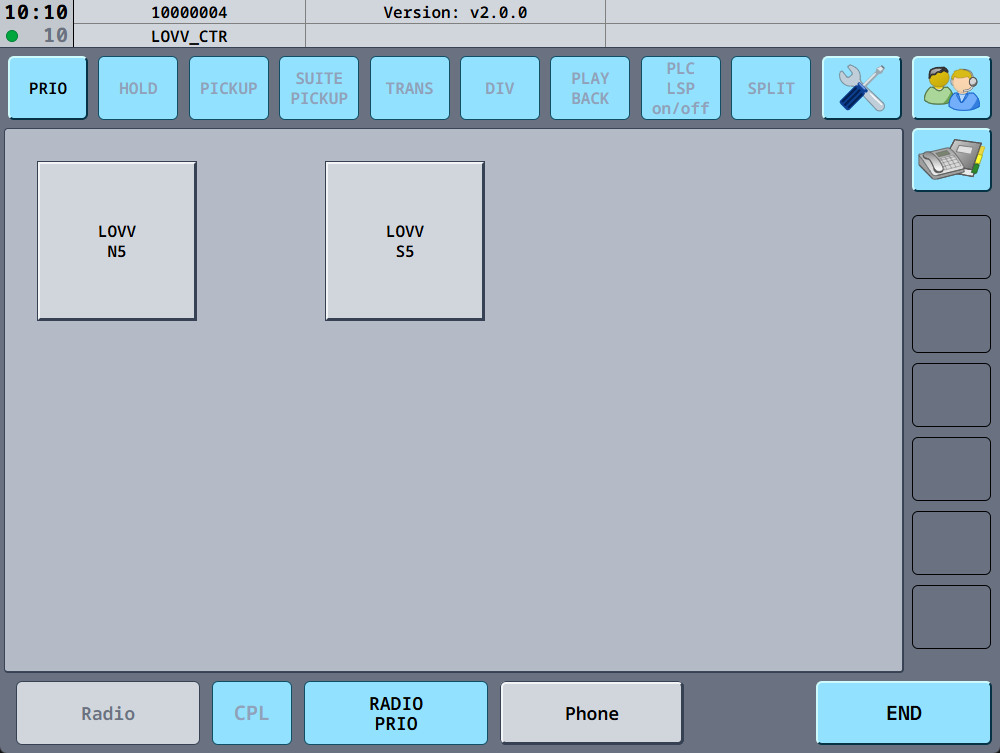
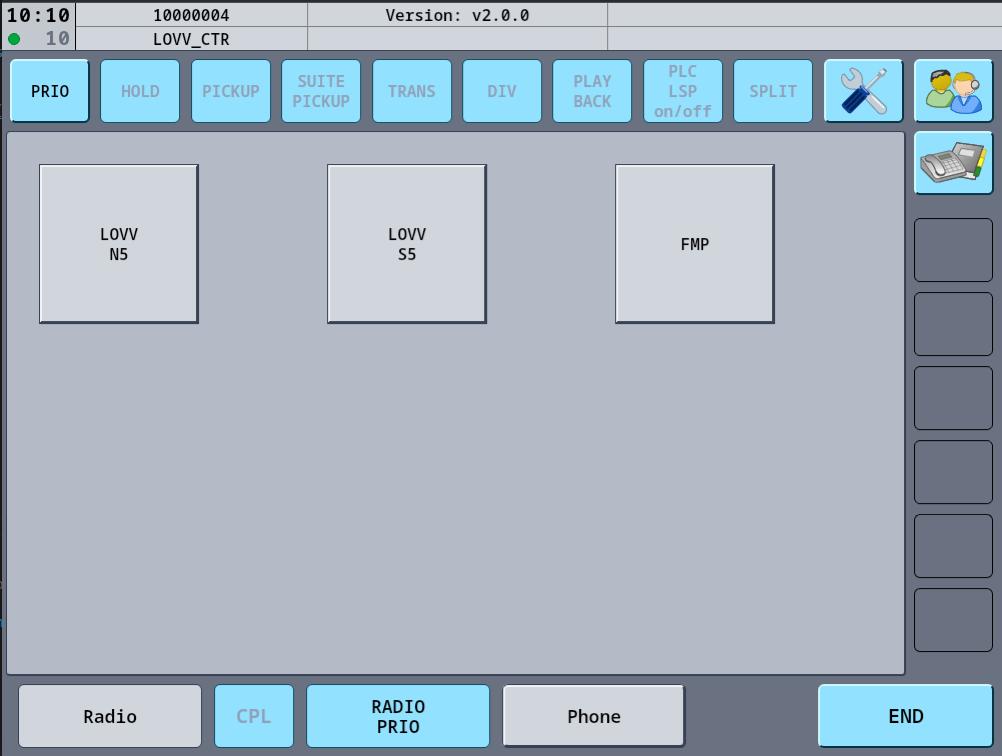
docs: add basic geo button station ID example

diff --git a/docs/dataset/profiles.md b/docs/dataset/profiles.md
@@ -413,6 +413,11 @@ This example demonstrates a simple geo profile using a vertical container layout
               }
             ]
           }
+        },
+        {
+          "label": ["FMP"],
+          "size": 10,
+          "station_id": "LOVV_FMP"
         }
       ]
     }
@@ -427,6 +432,7 @@ What this means in practice:
 - Inside is a horizontal row (`"row"`) containing two equally sized buttons (`size: 10`)
 - Each button opens a nested direct access page when pressed
 - The nested pages contain grids of station keys for different sectors
+- The "FMP" button calls the `LOVV_FMP` station directly instead of opening another page with keys for calling
 
 ### Subpage definition
 
